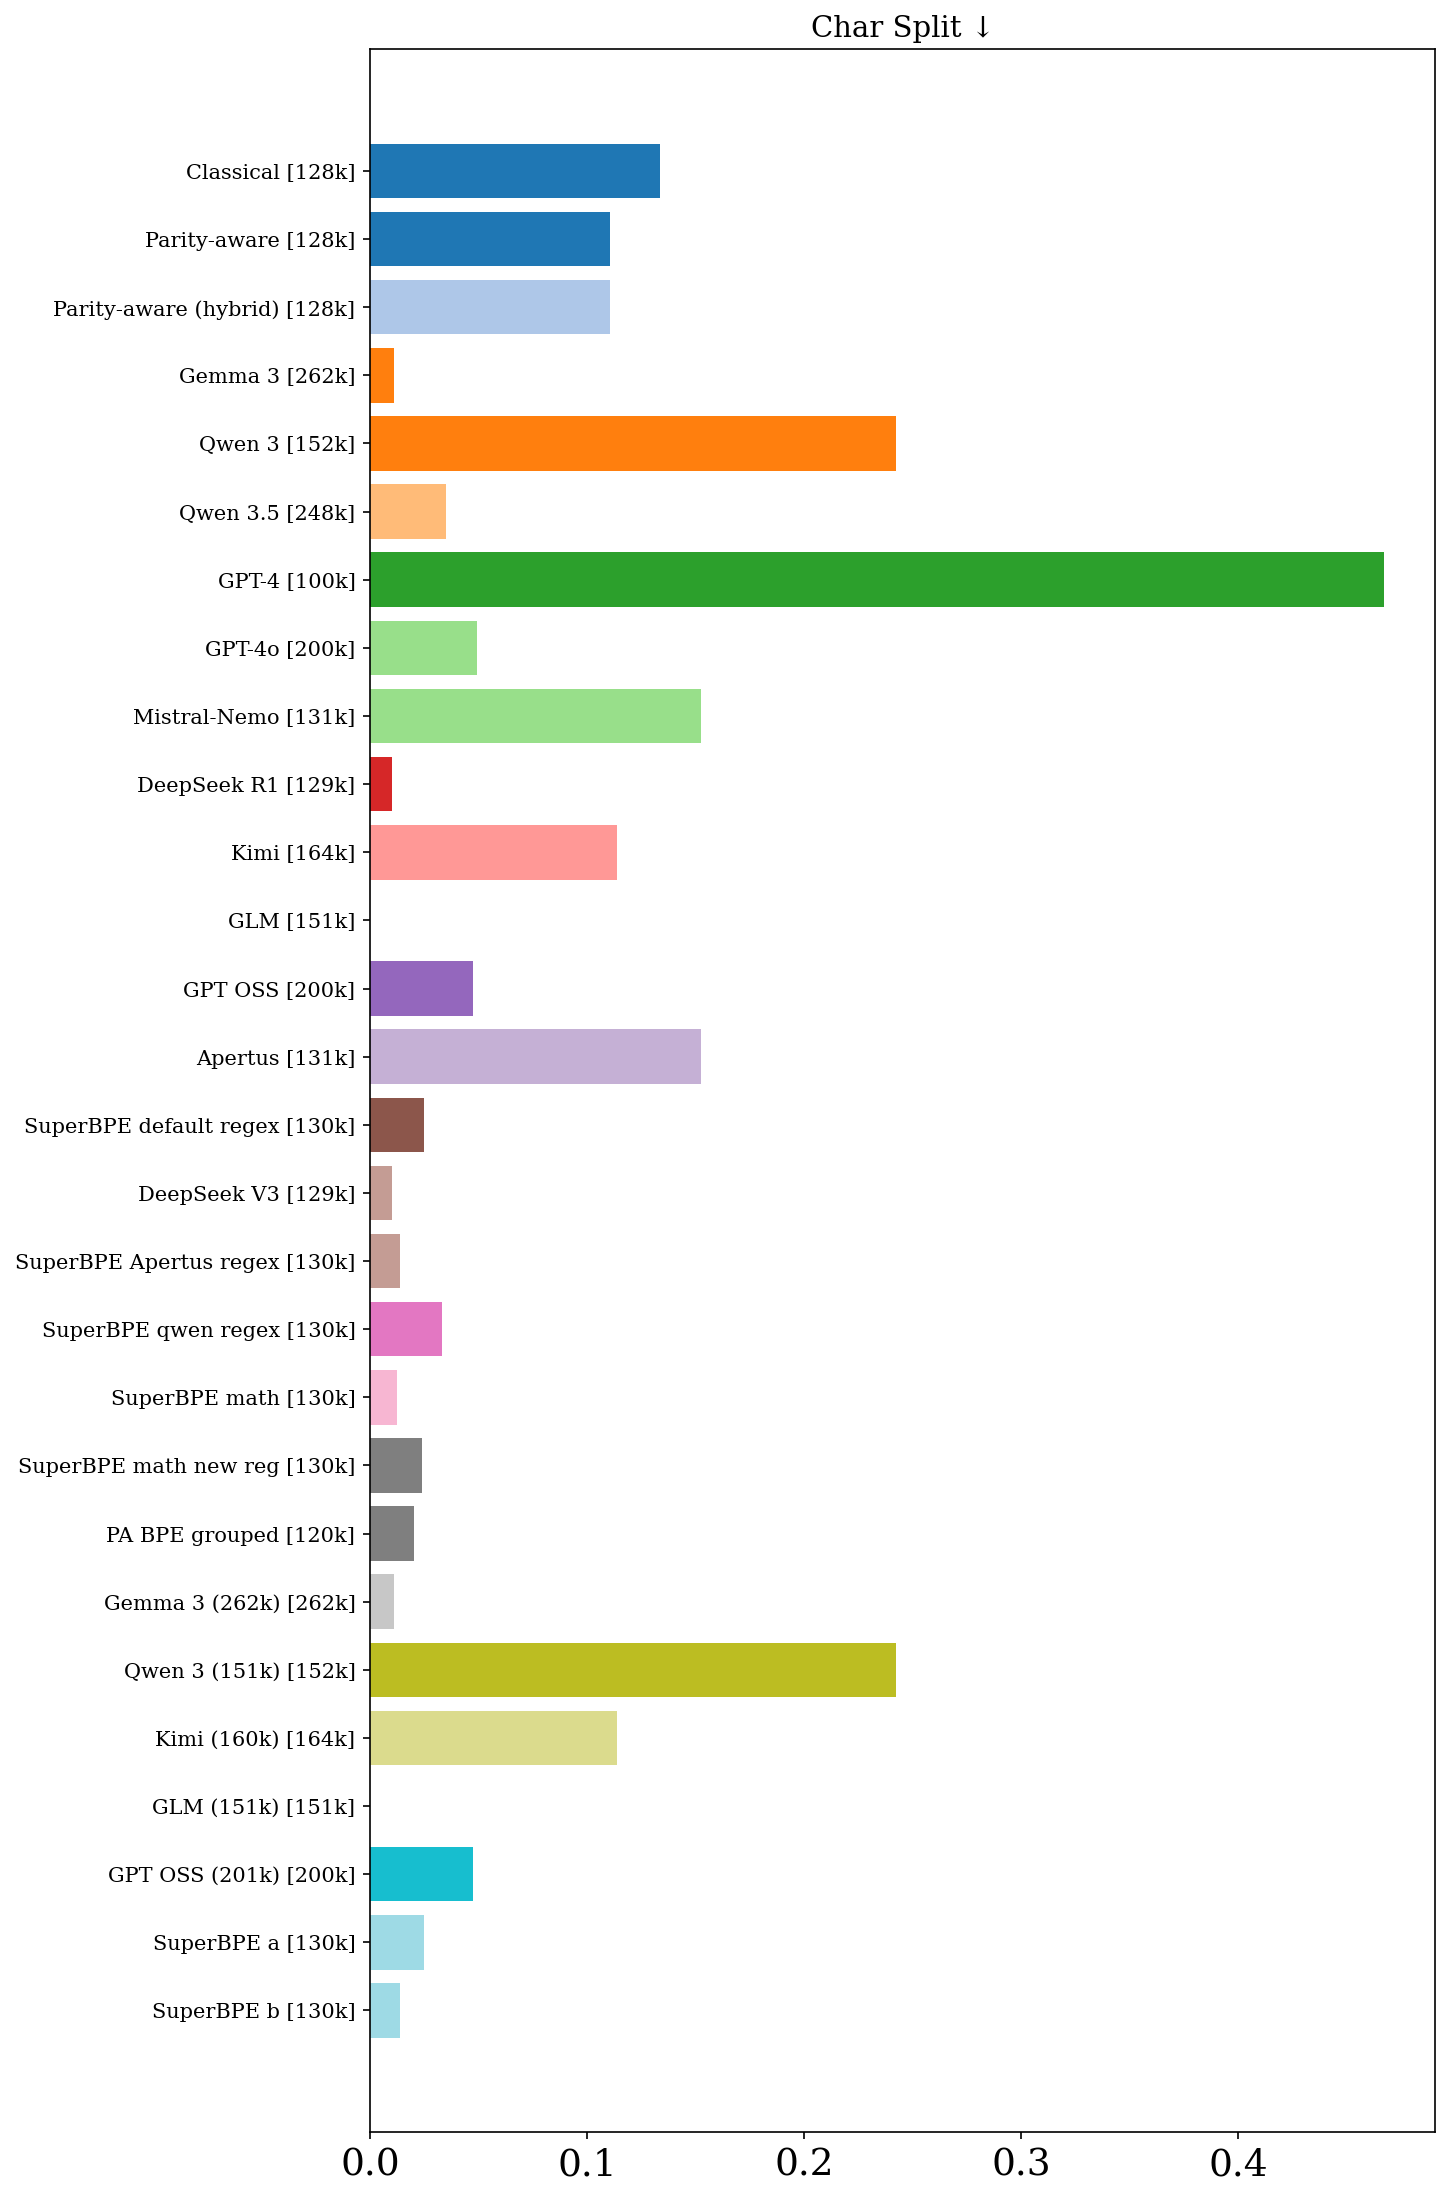
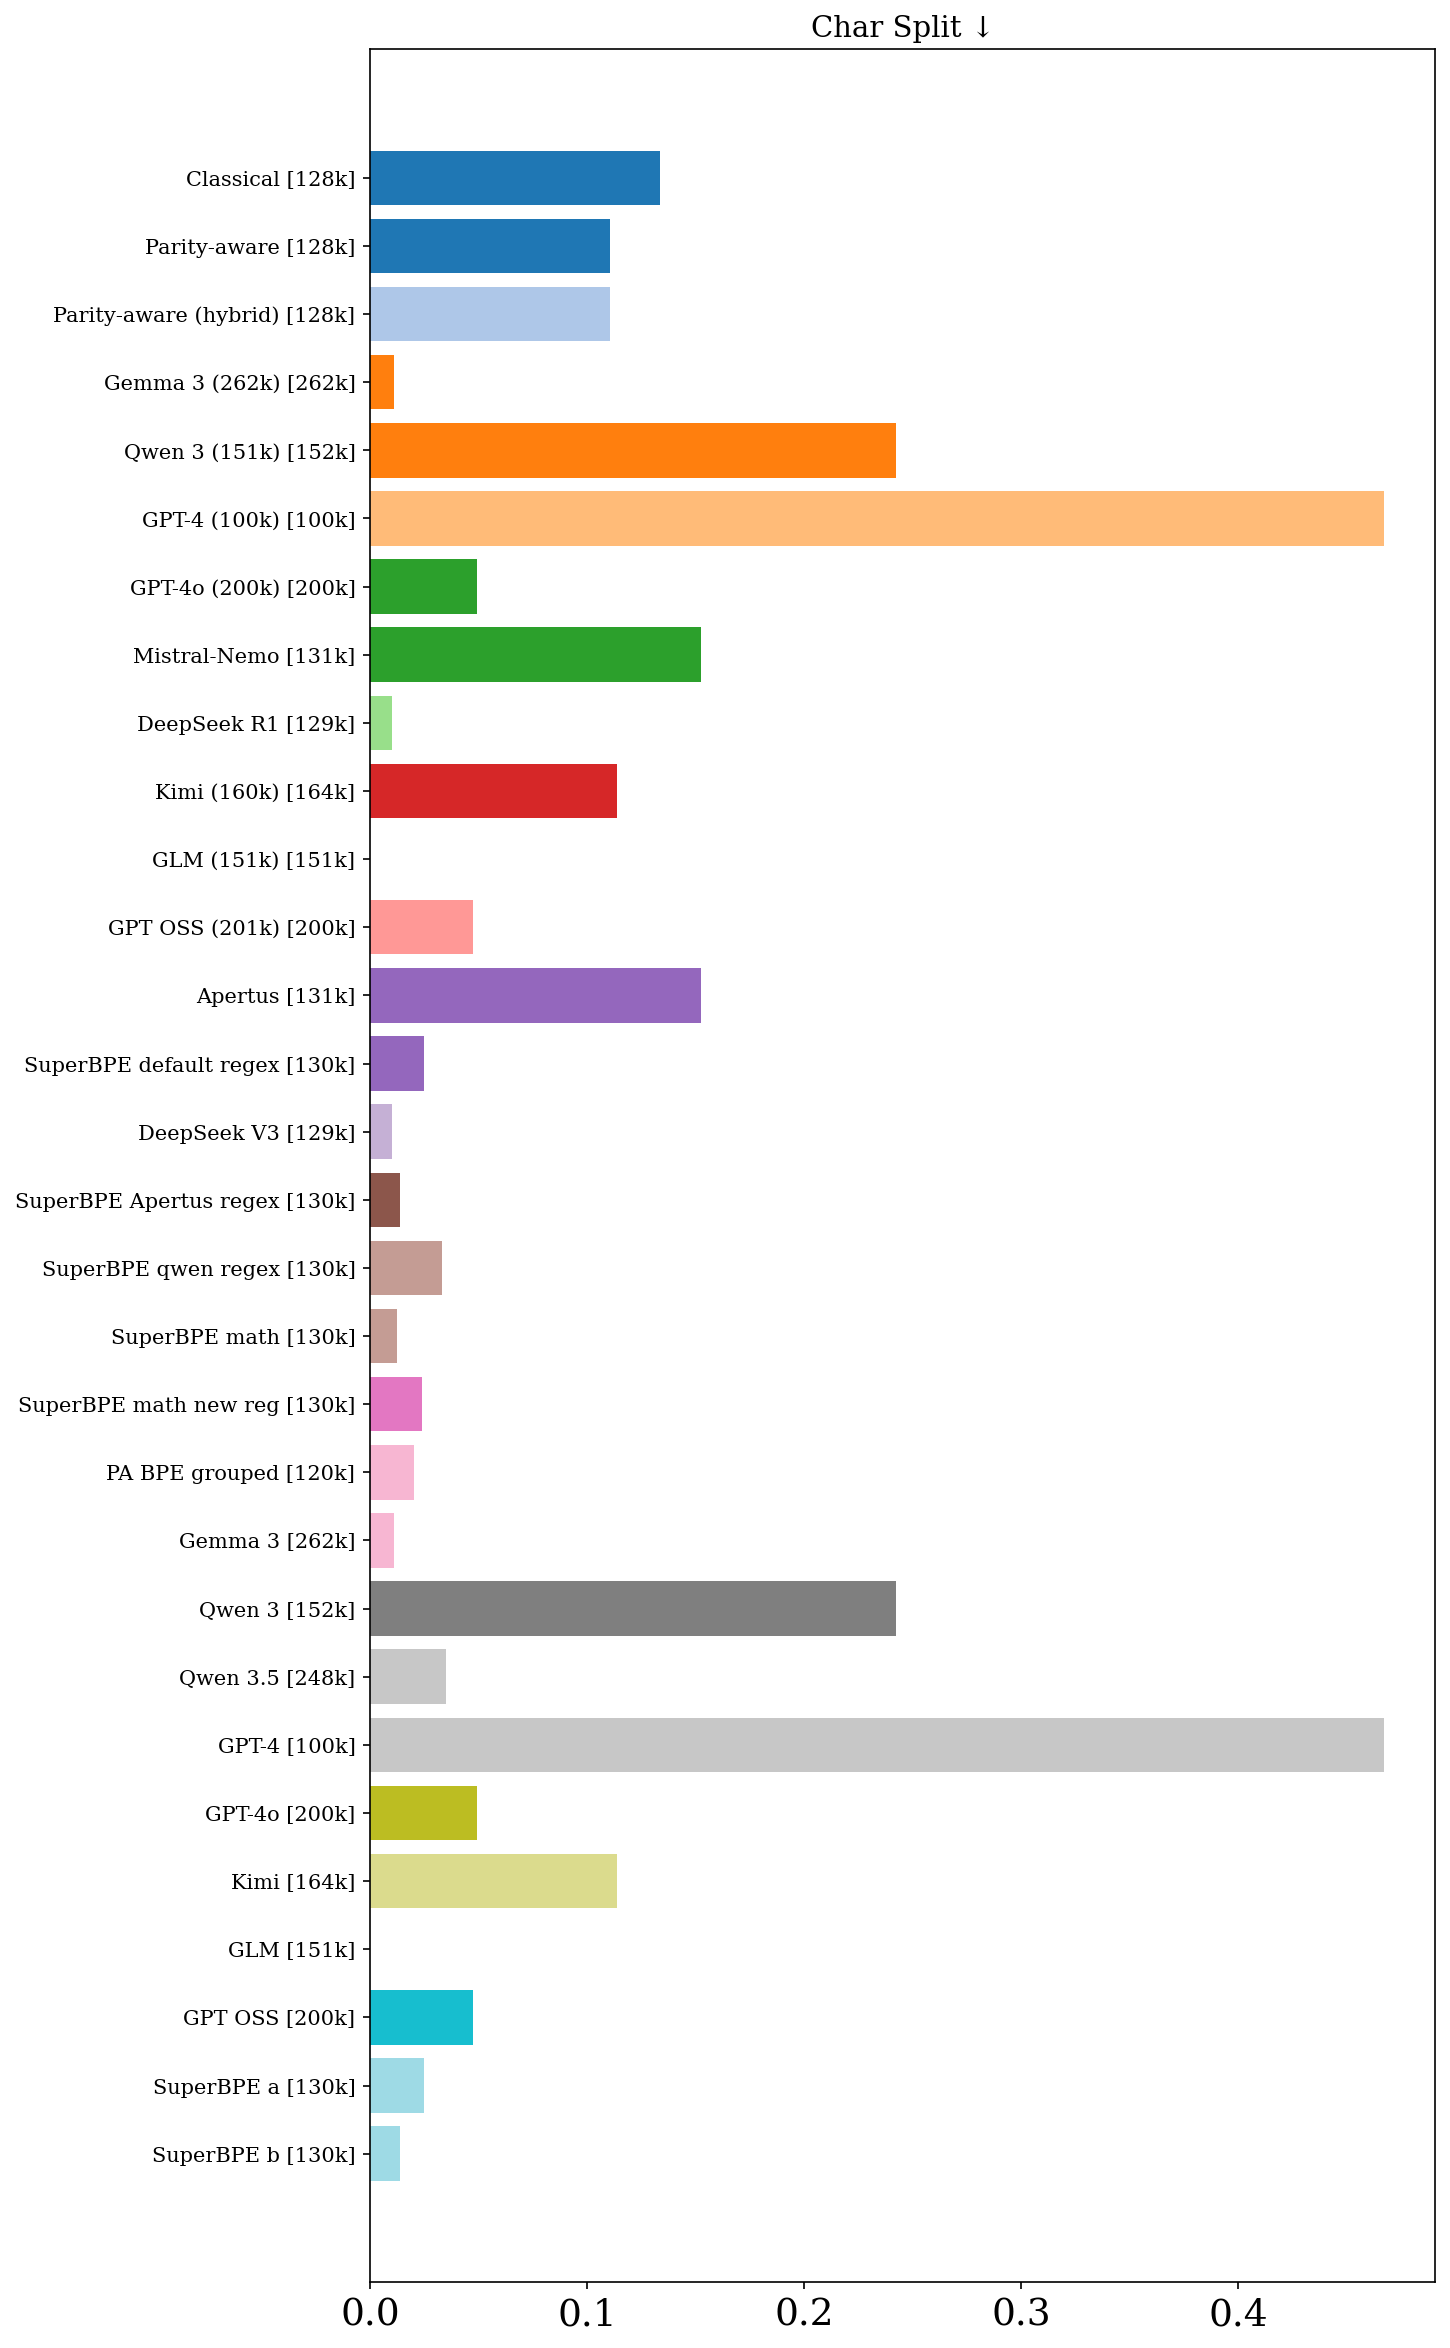
Update RESULTS_flores+_lines.md (2026-02-27 08:11:21)

diff --git a/RESULTS_flores+_lines.md b/RESULTS_flores+_lines.md
@@ -1,7 +1,27 @@
-# Tokenizer Evaluation Results
+# Tokenizer Evaluation Results — flores+ / lines
 
-_Last updated: 2026-02-27 08:07:46_
+_Last updated: 2026-02-27 03:07:44_
 
-| Tokenizer | Vocab Size | Fertility | Compression Rate | Vocab Util. | Avg Token Rank | Gini | 3-Digit Align. F1 | Op. Isolation | AST Align. | Ident. Frag. | Depth Corr. | Pat. Stability | Bound. Cross | Char Split | Languages | UTF-8 Integ. | TTR | Shannon Entropy | Dataset | User | Date |
+| Tokenizer | Vocab Size | Fertility ↓ | Compression Rate ↑ | Vocab Util. ↑ | Avg Token Rank ↓ | Gini ↓ | 3-Digit Align. F1 ↑ | Op. Isolation ↑ | AST Align. ↑ | Ident. Frag. ↓ | Depth Corr. ↑ | Pat. Stability ↑ | Bound. Cross ↓ | Char Split ↓ | Languages | UTF-8 Integ. | TTR | Shannon Entropy | Dataset | User | Date |
 | --- | --- | --- | --- | --- | --- | --- | --- | --- | --- | --- | --- | --- | --- | --- | --- | --- | --- | --- | --- | --- | --- |
-| Boundless pairwise aggressive n2 (dkletz, flores+) | 5,033 | 88.335 | 0.013 | 0.644 | 108.7 | 0.082 | --- | 0.047 | --- | --- | --- | --- | --- | --- | 92 | --- | 0.0004 | 7.19 | flores+ | dkletz | 2026-02-22 |
+| Classical [128k] | 128,004 | 59.463 | 0.022 | 0.682 | 4663.5 | 0.246 | 0.767 | 0.224 | 0.148 | 0.055 | **0.000** | **1.000** | 0.0574 | 0.1337 | 92 | 0.793 | --- | --- | flores+ | meistecl | 2026-02-27 |
+| Parity-aware [128k] | 128,004 | 59.101 | 0.022 | **0.691** | 4456.6 | 0.220 | 0.728 | 0.224 | 0.188 | 0.082 | 0.000 | 1.000 | 0.0440 | 0.1106 | 92 | 0.826 | --- | --- | flores+ | meistecl | 2026-02-27 |
+| Parity-aware (hybrid) [128k] | 128,004 | 58.267 | 0.022 | 0.691 | 4640.4 | 0.223 | 0.741 | 0.224 | 0.160 | 0.066 | 0.000 | 1.000 | 0.0450 | 0.1107 | 92 | 0.824 | --- | --- | flores+ | meistecl | 2026-02-27 |
+| Gemma 3 (262k) [262k] | 262,145 | **46.221** | 0.026 | 0.447 | 9461.6 | 0.126 | 0.432 | 0.406 | 0.088 | 0.030 | -0.113 | 0.966 | 0.0293 | 0.0110 | 92 | 0.962 | --- | --- | flores+ | meistecl | 2026-02-27 |
+| Qwen 3 (151k) [152k] | 151,669 | 75.897 | 0.020 | 0.324 | 1699.6 | 0.312 | 0.363 | 0.497 | 0.605 | 0.383 | 0.000 | 1.000 | 0.0561 | 0.2422 | 92 | 0.704 | --- | --- | flores+ | meistecl | 2026-02-27 |
+| GPT-4 (100k) [100k] | 100,261 | 90.731 | 0.018 | 0.279 | 874.3 | 0.357 | 0.744 | 0.499 | 0.610 | 0.434 | 0.000 | 1.000 | 0.0516 | 0.4675 | 92 | --- | --- | --- | flores+ | meistecl | 2026-02-27 |
+| GPT-4o (200k) [200k] | 200,000 | 48.585 | 0.025 | 0.475 | 8435.5 | 0.160 | 0.741 | 0.376 | 0.615 | 0.450 | 0.000 | 1.000 | 0.0096 | 0.0495 | 92 | --- | --- | --- | flores+ | meistecl | 2026-02-27 |
+| Mistral-Nemo [131k] | 131,072 | 64.763 | 0.023 | 0.564 | 4318.1 | 0.308 | 0.363 | 0.185 | 0.060 | 0.037 | 0.000 | 1.000 | 0.0171 | 0.1525 | 92 | 0.706 | --- | --- | flores+ | meistecl | 2026-02-27 |
+| DeepSeek R1 [129k] | 128,815 | 62.674 | 0.021 | 0.418 | 2864.6 | 0.229 | 0.767 | 0.204 | 0.000 | --- | 0.000 | 1.000 | 0.0509 | 0.0103 | 92 | 0.811 | --- | --- | flores+ | meistecl | 2026-02-27 |
+| Kimi (160k) [164k] | 163,840 | 62.820 | 0.020 | 0.244 | 2283.0 | 0.199 | 0.767 | 0.466 | 0.609 | 0.408 | 0.000 | 1.000 | 0.0498 | 0.1139 | 92 | 0.841 | --- | --- | flores+ | meistecl | 2026-02-27 |
+| GLM (151k) [151k] | 151,343 | 86.320 | 0.019 | 0.364 | 1631.6 | 0.372 | 0.471 | 0.000 | 0.001 | **0.000** | 0.000 | 1.000 | **0.0000** | **0.0000** | 92 | 1.000 | --- | --- | flores+ | meistecl | 2026-02-27 |
+| GPT OSS (201k) [200k] | 200,019 | 47.045 | **0.027** | 0.521 | 9529.8 | 0.169 | 0.767 | 0.371 | 0.609 | 0.401 | 0.000 | 1.000 | 0.0078 | 0.0475 | 92 | 0.909 | --- | --- | flores+ | meistecl | 2026-02-27 |
+| Apertus [131k] | 131,072 | 64.763 | 0.023 | 0.564 | 4318.1 | 0.308 | 0.363 | 0.185 | 0.060 | 0.037 | 0.000 | 1.000 | 0.0171 | 0.1525 | 92 | 0.706 | --- | --- | flores+ | meistecl | 2026-02-27 |
+| SuperBPE default regex [130k] | 130,000 | 46.224 | 0.025 | 0.553 | 9333.4 | 0.106 | 0.767 | 0.339 | 0.225 | 0.028 | 0.000 | 1.000 | 0.0206 | 0.0249 | 92 | --- | --- | --- | flores+ | meistecl | 2026-02-27 |
+| DeepSeek V3 [129k] | 128,815 | 62.674 | 0.021 | 0.418 | 2864.6 | 0.229 | 0.767 | 0.204 | 0.000 | --- | 0.000 | 1.000 | 0.0509 | 0.0103 | 92 | --- | --- | --- | flores+ | meistecl | 2026-02-27 |
+| SuperBPE Apertus regex [130k] | 130,000 | 52.158 | 0.024 | 0.593 | 7591.0 | 0.192 | 0.767 | 0.982 | 0.259 | 0.029 | 0.000 | 1.000 | 0.0085 | 0.0139 | 92 | --- | --- | --- | flores+ | meistecl | 2026-02-27 |
+| SuperBPE qwen regex [130k] | 130,000 | 48.526 | 0.024 | 0.572 | 9524.6 | 0.097 | 0.363 | 0.268 | 0.284 | 0.024 | 0.000 | 1.000 | 0.0292 | 0.0332 | 92 | 0.945 | --- | --- | flores+ | meistecl | 2026-02-27 |
+| SuperBPE math [130k] | 130,000 | 52.985 | 0.024 | 0.543 | 6733.8 | 0.190 | 0.767 | **0.983** | 0.264 | 0.028 | 0.000 | 1.000 | 0.0092 | 0.0126 | 92 | --- | --- | --- | flores+ | meistecl | 2026-02-27 |
+| SuperBPE math new reg [130k] | 130,000 | 46.554 | 0.025 | 0.539 | 8783.4 | 0.112 | **0.944** | 0.288 | 0.230 | 0.027 | 0.000 | 1.000 | 0.0218 | 0.0242 | 92 | --- | --- | --- | flores+ | meistecl | 2026-02-27 |
+| PA BPE grouped [120k] | 120,260 | 47.187 | 0.024 | 0.632 | 8240.1 | **0.064** | 0.700 | 0.224 | 0.159 | 0.067 | 0.000 | 1.000 | 0.0173 | 0.0205 | 92 | 0.964 | --- | --- | flores+ | meistecl | 2026-02-27 |
+| Boundless pairwise aggressive n2 (dkletz, flores+) | 5,033 | 88.335 | 0.013 | 0.644 | **108.7** | 0.082 | --- | 0.047 | --- | --- | --- | --- | --- | --- | 92 | --- | 0.0004 | 7.19 | flores+ | dkletz | 2026-02-22 |
